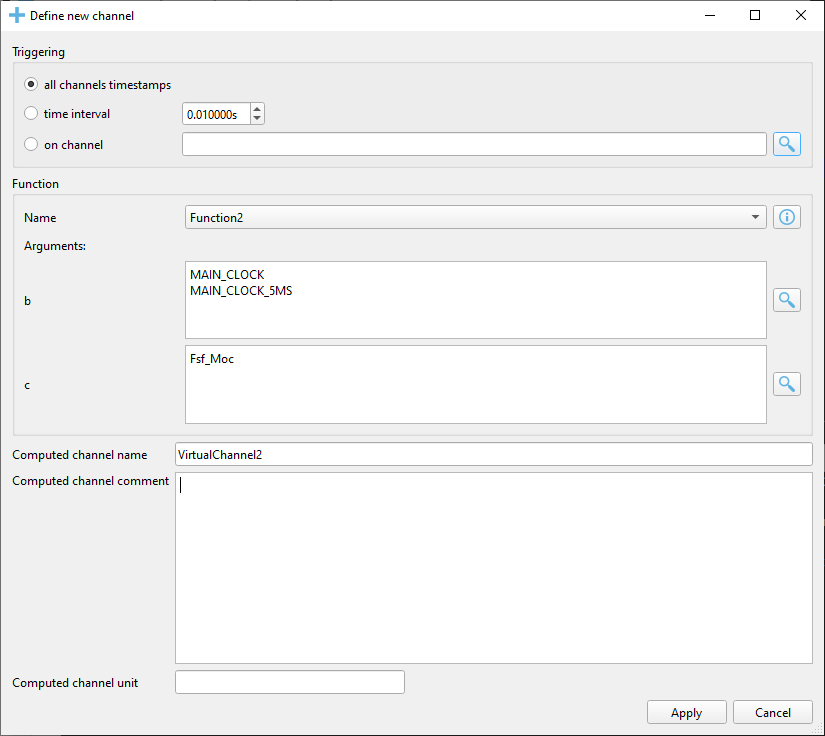
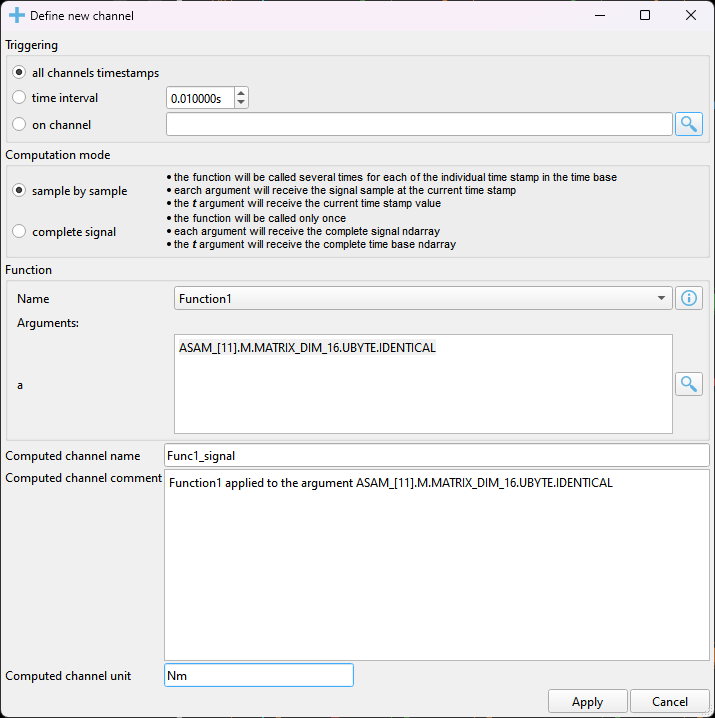
update documentation for virtual channels

diff --git a/doc/functions_manager.rst b/doc/functions_manager.rst
@@ -108,6 +108,8 @@ Option                                  Description
 ======================================= ================================================================================
 ``Triggering``                          the virtual channel samples will be calculated in the time stamps defined by the
                                         selected choice
+``Computation mode``                    the virtual channel can be computed passing the signal arguments samples by 
+                                        sample or passing the signal arguments directly as numpy ndarrays
 ``Function name``                       select one of the available functions
 ``Function info``                       displays the function definition code
 ``Arguments``                           alternative channel names for each argument. In the example argument `b` will
@@ -128,6 +130,26 @@ Option                                  Description
 ======================================= ================================================================================
 
 
+When the computation mode is set to `sample by sample` the following steps are executed:
+
+* the signals linked to the arguments are searched in the measurement file
+* using the signals found in the measurement, the union of all time stamps is computed (resulting an ndarray of length N)
+* all found signals are interpolated using the union time base
+* the function is called N times (once for each of the N time stamps) passing the signal value for the current time stamp and the time stamp (in the `t` argument).
+  The missing linked signals will be replaced by the default value specified in the function definition
+* the returned value are stored and finally the resulting Signal is constructed
+
+
+When the computation mode is set to `complete signal` the following steps are executed:
+
+* the signals linked to the arguments are searched in the measurement file
+* using the signals found in the measurement, the union of all time stamps is computed (resulting an ndarray of length N)
+* all found signals are interpolated using the union time base
+* the function is called only 1 time passing the complete signal ndarray's and the union of the time stamps (in the `t` argument).
+  The missing linked signals will be replaced by an ndarray of length N filled with the default value specified in the function definition
+* the result Signal is constructed using the ndarray returned by the function
+
+
 Example functions
 =================
 
@@ -143,6 +165,8 @@ Average of 3 channels
 Channel clipping
 ----------------
 
+Using `sample by sample` computation mode
+
 .. code:: python
 
     def clip(channel1=0, t=0):
@@ -152,6 +176,15 @@ Channel clipping
             return 0
         else:
             return channel1
+            
+
+Using `complete signal` computation mode
+
+.. code:: python
+
+    def clip(channel1=0, t=0):
+        return np.clip(cahnnel1, 0, 100)
+            
             
 Grey code to decimal
 --------------------
@@ -184,4 +217,16 @@ rpm to rad/s
 
     def rpm_to_rad_per_second(speed=0, t=0):
         return 2 * np.pi * speed / 60
+       
+
+gradient
+--------
+
+In the `Define channel` dialog the computation mode must be set to `complete signal`
+
+.. code:: python
+
+    def rpm_to_rad_per_second(speed=0, t=0):
+        return np.diff(speed) / np.diff(t)
+        
        
